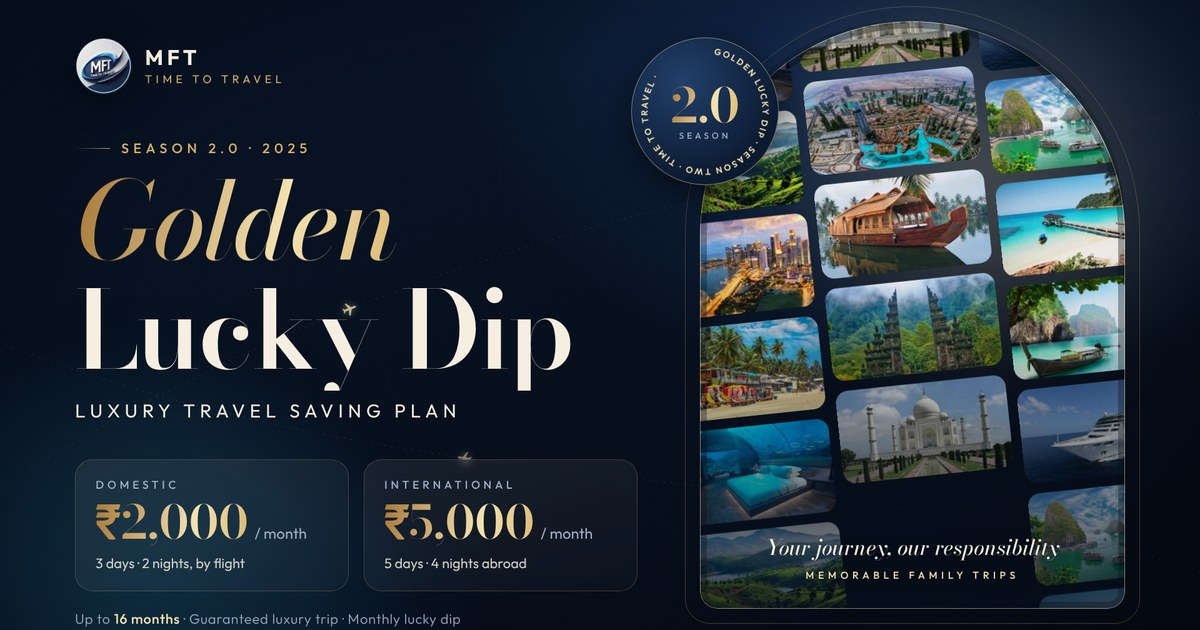
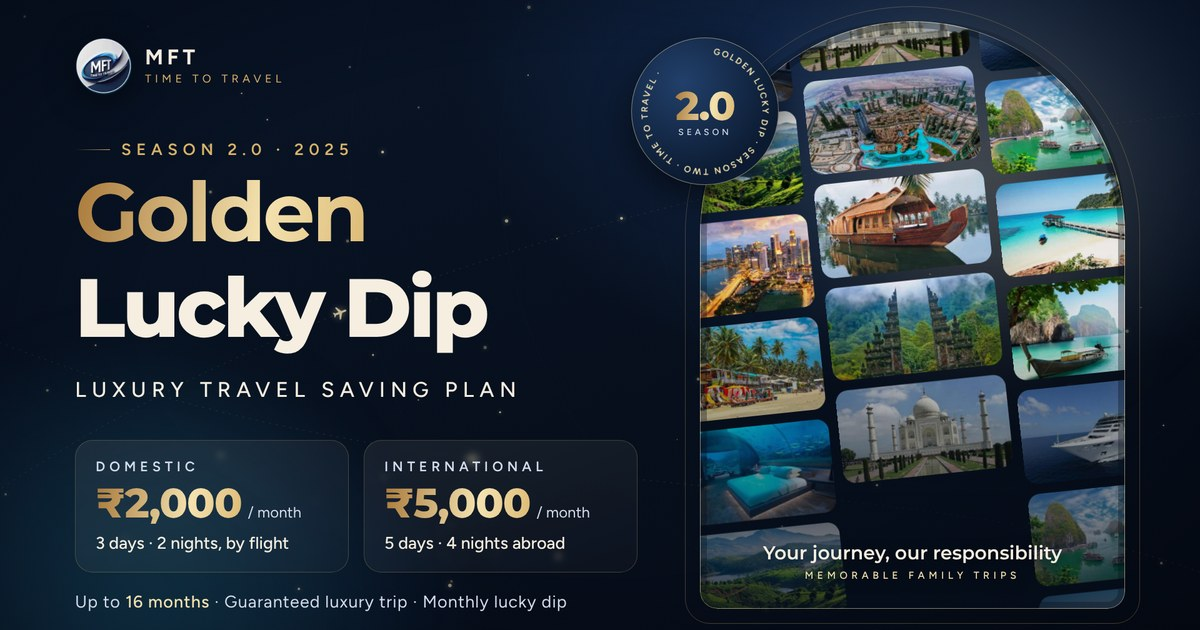
Add files via upload

diff --git a/index.html b/index.html
@@ -24,7 +24,7 @@
 <meta name="twitter:image" content="https://hashirsulthan0-cmd.github.io/mft-travel-plan/preview.jpg">
 <link rel="preconnect" href="https://fonts.googleapis.com">
 <link rel="preconnect" href="https://fonts.gstatic.com" crossorigin>
-<link rel="stylesheet" href="https://fonts.googleapis.com/css2?family=Bodoni+Moda:ital,opsz,wght@0,6..96,500;0,6..96,600;0,6..96,700;1,6..96,500;1,6..96,600&family=Outfit:wght@300;400;500;600;700&display=swap">
+<link rel="stylesheet" href="https://fonts.googleapis.com/css2?family=Montserrat:wght@400;500;600;700;800&family=Figtree:wght@400;500;600;700;800&display=swap">
 <style>
 /* Layout: one 1920x1080 stage scaled to the screen. Midnight navy ground, champagne gold as the single accent,
    Bodoni for display moments, Outfit for everything that has to be read fast. */
@@ -44,8 +44,8 @@
   --t-blue: #4cc6ec;
   --t-crown: #c5a2f7;
   --t-royal: #9f8dff;
-  --display: "Bodoni Moda", "Bodoni 72", Didot, Georgia, serif;
-  --sans: "Outfit", "Segoe UI", system-ui, -apple-system, sans-serif;
+  --display: "Montserrat", "Segoe UI", system-ui, sans-serif;
+  --sans: "Figtree", "Segoe UI", system-ui, -apple-system, sans-serif;
   color-scheme: dark;
 }
 * { box-sizing: border-box; }
@@ -91,35 +91,37 @@ body {
 .vignette { position: absolute; inset: 0; background: radial-gradient(ellipse at center, transparent 55%, rgba(2, 6, 12, .55) 100%); pointer-events: none; }
 
 /* ---------- slides ---------- */
-.slide { position: absolute; inset: 0; opacity: 0; visibility: hidden; transition: opacity .5s ease, visibility 0s linear .5s; }
-.slide.on { opacity: 1; visibility: visible; transition: opacity .5s ease; z-index: 2; }
+.slide { position: absolute; inset: 0; opacity: 0; visibility: hidden; transform: scale(.965); transition: opacity .55s ease, transform .7s cubic-bezier(.4,0,.2,1), visibility 0s linear .7s; }
+.slide.on { opacity: 1; visibility: visible; transform: none; transition: opacity .6s ease .1s, transform 1s cubic-bezier(.16,1,.3,1) .05s; z-index: 2; }
+.corner-logo { position: absolute; right: 44px; top: 34px; width: 116px; height: 116px; z-index: 4; filter: drop-shadow(0 10px 26px rgba(0,0,0,.55)); }
+.dust { position: absolute; inset: 0; width: 100%; height: 100%; pointer-events: none; }
 .slide img { display: block; max-width: none; }
 
 .eyebrow { display: inline-flex; align-items: center; gap: 18px; font: 600 26px/1 var(--sans); letter-spacing: .32em; text-transform: uppercase; color: var(--gold); }
 .eyebrow::before { content: ""; width: 56px; height: 1px; background: linear-gradient(90deg, transparent, var(--gold)); }
-.h2 { font: 600 84px/.86 var(--display); letter-spacing: -.01em; margin: 6px 0 0; text-wrap: balance; }
-.h2 em, .it { font-style: italic; font-weight: 500; }
+.h2 { font: 800 76px/1.02 var(--display); letter-spacing: -.02em; margin: 10px 0 0; text-wrap: balance; }
+.h2 em, .it { font-style: normal; font-weight: 600; }
 .gold-text {
   background: linear-gradient(100deg, #a9793a 0%, #f4e2b0 30%, #d8b26a 50%, #fff4d2 66%, #b8873f 100%);
   background-size: 220% 100%; -webkit-background-clip: text; background-clip: text; color: transparent;
   animation: sheen 7s ease-in-out infinite;
 }
 @keyframes sheen { 0%, 100% { background-position: 0% 0; } 50% { background-position: 100% 0; } }
-.ln { display: block; overflow: hidden; padding: .1em 0 .08em; }
+.ln { display: block; overflow: hidden; padding: .06em 0 .12em; }
 .ln > * { display: inline-block; }
 .head { position: absolute; left: 120px; top: 92px; right: 120px; }
 .head .sub { margin-top: 18px; font: 400 31px/1.4 var(--sans); color: var(--mist); max-width: 1100px; }
 
 .foot { position: absolute; left: 120px; right: 120px; bottom: 40px; display: flex; align-items: center; justify-content: space-between; font: 500 20px var(--sans); letter-spacing: .22em; text-transform: uppercase; color: rgba(211,220,235,.85); }
 .foot .fb { display: flex; align-items: center; gap: 14px; }
-.foot img { width: 36px; height: 36px; }
+.foot .fb::before { content: ""; width: 40px; height: 1px; background: linear-gradient(90deg, transparent, var(--gold)); }
 .foot .pg { font-variant-numeric: tabular-nums; }
 .foot .pg b { color: var(--gold); font-weight: 600; }
 
 .glass { background: linear-gradient(160deg, rgba(255,255,255,.07), rgba(255,255,255,.025)); border: 1px solid var(--line); border-radius: 28px; backdrop-filter: blur(6px); }
 
 /* ---------- entry animations ---------- */
-.slide.on [class*="a-"] { animation-duration: .9s; animation-timing-function: cubic-bezier(.2,.8,.2,1); animation-fill-mode: both; animation-delay: var(--d, 0s); }
+.slide.on [class*="a-"] { animation-duration: .9s; animation-timing-function: cubic-bezier(.2,.8,.2,1); animation-fill-mode: both; animation-delay: var(--d, 0s); animation-iteration-count: 1; }
 .slide.on .a-up    { animation-name: up; }
 .slide.on .a-down  { animation-name: down; }
 .slide.on .a-left  { animation-name: left; }
@@ -167,14 +169,14 @@ body {
 .brand b { display: block; font: 700 34px/1 var(--sans); letter-spacing: .18em; }
 .brand span { display: block; margin-top: 6px; font: 400 18px var(--sans); letter-spacing: .34em; text-transform: uppercase; color: var(--gold); }
 .cover-left .eyebrow { margin-top: 74px; }
-.cover-title { margin: 6px 0 0; font: 600 172px/.78 var(--display); letter-spacing: -.02em; }
-.cover-title .it { font-weight: 500; }
+.cover-title { margin: 14px 0 0; font: 800 132px/.98 var(--display); letter-spacing: -.035em; }
+.cover-title .it { font-weight: 700; }
 .cover-sub { margin: 30px 0 0; font: 500 34px/1.3 var(--sans); letter-spacing: .26em; text-transform: uppercase; color: var(--ivory); }
 .plans { display: flex; gap: 24px; margin-top: 58px; }
 .plan { flex: 1; padding: 28px 32px 30px; }
 .plan .k { font: 600 22px var(--sans); letter-spacing: .3em; text-transform: uppercase; color: var(--mist); }
 .plan .v { margin-top: 12px; display: flex; align-items: baseline; gap: 10px; }
-.plan .v b { font: 600 74px/1 var(--display); }
+.plan .v b { font: 800 66px/1 var(--display); letter-spacing: -.02em; }
 .plan .v small { font: 400 24px var(--sans); color: var(--mist); }
 .plan .n { margin-top: 14px; font: 500 27px var(--sans); color: var(--ivory); }
 .cover-note { margin-top: 30px; font: 400 27px var(--sans); color: var(--mist); letter-spacing: .04em; }
@@ -190,25 +192,25 @@ body {
 .marquee img { width: 100%; height: 300px; object-fit: cover; border-radius: 18px; }
 @keyframes scrollUp { from { transform: translateY(0); } to { transform: translateY(-50%); } }
 @keyframes scrollDown { from { transform: translateY(-50%); } to { transform: translateY(0); } }
-.arch-cap { position: absolute; left: 0; right: 0; bottom: 44px; text-align: center; font: 500 italic 34px var(--display); color: var(--ivory); text-shadow: 0 4px 20px rgba(0,0,0,.6); }
+.arch-cap { position: absolute; left: 0; right: 0; bottom: 44px; text-align: center; font: 600 30px var(--display); color: var(--ivory); text-shadow: 0 4px 20px rgba(0,0,0,.6); }
 .arch-cap small { display: block; margin-top: 8px; font: 500 16px var(--sans); font-style: normal; letter-spacing: .4em; text-transform: uppercase; color: var(--gold-hi); }
 .seal { position: absolute; left: 1010px; top: 96px; width: 236px; height: 236px; border-radius: 50%; background: radial-gradient(circle at 35% 30%, #22406b, #0b1a30 70%); box-shadow: 0 20px 60px rgba(0,0,0,.6), inset 0 0 0 1px rgba(244,226,176,.5); display: grid; place-items: center; }
 .seal svg { position: absolute; inset: 0; width: 100%; height: 100%; animation: rot 26s linear infinite; }
 .seal text { font: 600 14px var(--sans); letter-spacing: 2.6px; fill: var(--gold-hi); text-transform: uppercase; }
 @keyframes rot { to { transform: rotate(360deg); } }
 .seal .c { text-align: center; }
-.seal .c b { display: block; font: 600 76px/1 var(--display); }
+.seal .c b { display: block; font: 800 64px/1 var(--display); letter-spacing: -.03em; }
 .seal .c span { display: block; margin-top: 2px; font: 500 14px var(--sans); letter-spacing: .34em; color: var(--mist); text-transform: uppercase; }
 
 /* ---------- 2 / 4 plan ---------- */
 .plan-left { position: absolute; left: 120px; top: 92px; width: 860px; }
 .price-k { margin-top: 54px; font: 600 26px var(--sans); letter-spacing: .3em; text-transform: uppercase; color: var(--mist); }
 .price { display: flex; align-items: baseline; gap: 18px; margin-top: 4px; }
-.price b { font: 600 190px/1 var(--display); letter-spacing: -.03em; }
+.price b { font: 800 160px/1 var(--display); letter-spacing: -.04em; }
 .price small { font: 300 40px var(--sans); color: var(--mist); }
 .stats { display: grid; grid-template-columns: repeat(3, 1fr); gap: 20px; margin-top: 46px; }
 .stat { padding: 26px 30px; }
-.stat b { display: block; font: 600 54px/1 var(--display); color: var(--ivory); }
+.stat b { display: block; font: 800 48px/1 var(--display); color: var(--ivory); letter-spacing: -.02em; }
 .stat span { display: block; margin-top: 10px; font: 600 23px var(--sans); letter-spacing: .2em; text-transform: uppercase; color: var(--mist); }
 .promise { display: inline-flex; align-items: center; gap: 18px; margin-top: 36px; padding: 18px 30px 18px 20px; border-radius: 999px; background: linear-gradient(90deg, rgba(216,178,106,.2), rgba(216,178,106,.04)); border: 1px solid rgba(216,178,106,.5); font: 600 30px var(--sans); color: var(--gold-hi); }
 .promise i { width: 40px; height: 40px; border-radius: 50%; background: var(--gold); display: grid; place-items: center; flex: none; }
@@ -219,7 +221,7 @@ body {
 .slide:not(.on) .photo-arch .stk { animation: none; }
 @keyframes kenburns { from { transform: scale(1.12) translateY(20px); } to { transform: scale(1.02); } }
 .photo-arch::after { content: ""; position: absolute; inset: 0; border-radius: inherit; border: 1.5px solid rgba(244,226,176,.5); background: linear-gradient(180deg, transparent 55%, rgba(6,14,27,.8)); }
-.photo-arch .tag { position: absolute; left: 0; right: 0; bottom: 40px; z-index: 2; text-align: center; font: 500 italic 40px var(--display); }
+.photo-arch .tag { position: absolute; left: 0; right: 0; bottom: 40px; z-index: 2; text-align: center; font: 700 38px var(--display); }
 .photo-arch .tag small { display: block; font: 500 16px var(--sans); font-style: normal; letter-spacing: .36em; text-transform: uppercase; color: var(--gold-hi); margin-bottom: 8px; }
 .photo-mini { position: absolute; width: 330px; height: 230px; border-radius: 22px; overflow: hidden; border: 6px solid #0c1b31; box-shadow: 0 30px 80px rgba(0,0,0,.6); }
 .photo-mini img { width: 100%; height: 100%; object-fit: cover; }
@@ -234,14 +236,14 @@ body {
 .dest::after { content: ""; position: absolute; inset: 0; border-radius: inherit; background: linear-gradient(180deg, rgba(6,14,27,0) 40%, rgba(6,14,27,.92)); box-shadow: inset 0 0 0 1px rgba(244,226,176,.18); }
 .dest .cap { position: absolute; left: 22px; right: 18px; bottom: 20px; z-index: 2; }
 .dest .cap b { display: block; font: 600 31px/1.15 var(--sans); color: #fff; text-wrap: balance; overflow-wrap: anywhere; }
-.dest .cap b.sm { font-size: 25px; }
+.dest .cap b.sm { font-size: 21px; overflow-wrap: normal; letter-spacing: -.01em; }
 .dest .cap span { display: block; margin-top: 6px; font: 600 17px var(--sans); letter-spacing: .24em; text-transform: uppercase; color: var(--gold-hi); }
 .dest-grid.g5 .dest { height: 290px; }
 .dest-grid.g5 .dest.wide { grid-column: span 1; }
 
 /* ---------- 6 lucky dip ---------- */
 .ld-left { position: absolute; left: 120px; top: 92px; width: 820px; }
-.ld-big { margin: 8px 0 0; font: 600 150px/.8 var(--display); letter-spacing: -.02em; }
+.ld-big { margin: 14px 0 0; font: 800 132px/.98 var(--display); letter-spacing: -.035em; }
 .ld-pre { margin-top: 22px; font: 400 42px/1.25 var(--sans); color: var(--ivory); }
 .ld-chips { display: flex; flex-wrap: wrap; gap: 16px; margin-top: 46px; }
 .chip { display: inline-flex; align-items: center; gap: 14px; padding: 18px 28px; border-radius: 999px; font: 600 28px var(--sans); }
@@ -262,14 +264,14 @@ body {
 
 /* ---------- 7 power of 5 ---------- */
 .p5-left { position: absolute; left: 120px; top: 92px; width: 860px; }
-.p5-title { margin: 0; font: 600 200px/.8 var(--display); letter-spacing: -.02em; }
-.p5-title .of { display: inline-block; font: 500 italic 90px var(--display); color: var(--mist); margin: 0 10px 0 16px; vertical-align: middle; }
+.p5-title { margin: 6px 0 0; font: 800 150px/1 var(--display); letter-spacing: -.04em; }
+.p5-title .of { display: inline-block; font: 600 64px var(--display); color: var(--mist); margin: 0 10px 0 16px; vertical-align: middle; }
 .p5-copy { margin-top: 30px; font: 400 34px/1.45 var(--sans); color: var(--mist); max-width: 760px; }
 .p5-copy b { color: var(--ivory); font-weight: 500; }
 .p5-stats { display: flex; gap: 22px; margin-top: 54px; }
 .p5-stats .glass { padding: 28px 34px; min-width: 330px; }
 .p5-stats .k { font: 600 22px var(--sans); letter-spacing: .28em; text-transform: uppercase; color: var(--mist); }
-.p5-stats .v { margin-top: 12px; font: 600 72px/1 var(--display); }
+.p5-stats .v { margin-top: 12px; font: 800 60px/1 var(--display); letter-spacing: -.02em; }
 .orbit { position: absolute; left: 1030px; top: 120px; width: 800px; height: 800px; }
 .orbit svg.lines { position: absolute; inset: 0; overflow: visible; }
 .orbit svg.lines circle { fill: none; stroke: rgba(216,178,106,.22); stroke-width: 1.5; stroke-dasharray: 4 10; }
@@ -279,7 +281,7 @@ body {
 .node.m svg { width: 54px; height: 54px; fill: var(--gold-hi); }
 .node.m span { display: block; margin-top: 4px; font: 600 17px var(--sans); letter-spacing: .2em; text-transform: uppercase; color: var(--mist); }
 .node.you { width: 250px; height: 250px; margin: -125px 0 0 -125px; background: radial-gradient(circle at 35% 30%, #f4e2b0, #c89b52 55%, #8a6128); box-shadow: 0 0 0 14px rgba(216,178,106,.12), 0 0 0 30px rgba(216,178,106,.06), 0 30px 80px rgba(0,0,0,.5); color: var(--night); }
-.node.you b { display: block; font: 600 120px/1 var(--display); }
+.node.you b { display: block; font: 800 110px/1 var(--display); }
 .node.you span { display: block; margin-top: -4px; font: 600 16px var(--sans); letter-spacing: .3em; text-transform: uppercase; }
 .pulse { position: absolute; left: 400px; top: 400px; width: 250px; height: 250px; margin: -125px 0 0 -125px; border-radius: 50%; border: 2px solid rgba(216,178,106,.5); }
 .slide.on .pulse { animation: pulse 2.8s ease-out 2s infinite; }
@@ -290,7 +292,7 @@ body {
 .inc { padding: 40px 42px; height: 270px; display: flex; flex-direction: column; justify-content: space-between; position: relative; overflow: hidden; }
 .inc .ic { width: 84px; height: 84px; border-radius: 22px; display: grid; place-items: center; background: linear-gradient(145deg, rgba(216,178,106,.28), rgba(216,178,106,.06)); border: 1px solid rgba(216,178,106,.45); }
 .inc .ic svg { width: 44px; height: 44px; stroke: var(--gold-hi); stroke-width: 1.8; fill: none; stroke-linecap: round; stroke-linejoin: round; }
-.inc b { font: 600 52px/1.05 var(--display); }
+.inc b { font: 700 44px/1.1 var(--display); letter-spacing: -.01em; }
 .inc::after { content: ""; position: absolute; right: -60px; top: -60px; width: 220px; height: 220px; border-radius: 50%; background: radial-gradient(circle, rgba(216,178,106,.16), transparent 70%); }
 
 /* ---------- tables (9, 10, 11) ---------- */
@@ -301,7 +303,7 @@ body {
 .lvl sup { font-size: .6em; }
 .des { display: flex; align-items: center; gap: 22px; font: 600 34px var(--sans); letter-spacing: .04em; }
 .des img { width: 86px; height: 64px; object-fit: contain; flex: none; filter: drop-shadow(0 8px 14px rgba(0,0,0,.45)); }
-.num { font: 600 48px var(--display); }
+.num { font: 700 42px var(--display); letter-spacing: -.01em; }
 .num.r { text-align: right; }
 .num.pct { font: 700 40px var(--sans); }
 .calc { font: 500 34px var(--sans); color: var(--ivory); }
@@ -312,13 +314,13 @@ body {
 .bar-cell { display: grid; grid-template-columns: 1fr 110px; align-items: center; }
 .total { position: absolute; right: 120px; top: 300px; width: 540px; height: 636px; padding: 50px 48px; display: flex; flex-direction: column; justify-content: space-between; overflow: hidden; }
 .total .k { font: 600 24px var(--sans); letter-spacing: .3em; text-transform: uppercase; color: var(--gold); }
-.total .t { margin-top: 16px; font: 600 54px/1.05 var(--display); }
-.total .v { font: 600 80px/1 var(--display); letter-spacing: -.02em; font-variant-numeric: tabular-nums; }
+.total .t { margin-top: 16px; font: 700 40px/1.15 var(--display); }
+.total .v { font: 800 76px/1 var(--display); letter-spacing: -.03em; font-variant-numeric: tabular-nums; }
 .total .s { margin-top: 14px; font: 400 25px/1.4 var(--sans); color: var(--mist); }
 .total .ring { position: absolute; right: -170px; top: -170px; width: 440px; height: 440px; border-radius: 50%; border: 1px solid rgba(216,178,106,.25); box-shadow: 0 0 0 40px rgba(216,178,106,.04), 0 0 0 90px rgba(216,178,106,.03); }
 
-.lv-badge { position: absolute; right: 120px; top: 84px; display: flex; align-items: center; gap: 18px; padding: 14px 30px 14px 14px; border-radius: 999px; background: linear-gradient(100deg, #b8873f, #f4e2b0 50%, #d8b26a); color: var(--night); box-shadow: 0 18px 50px rgba(216,178,106,.28); }
-.lv-badge b { width: 92px; height: 92px; border-radius: 50%; background: var(--night); color: var(--gold-hi); display: grid; place-items: center; font: 600 62px/1 var(--display); }
+.lv-badge { position: absolute; right: 200px; top: 112px; display: flex; align-items: center; gap: 18px; padding: 14px 30px 14px 14px; border-radius: 999px; background: linear-gradient(100deg, #b8873f, #f4e2b0 50%, #d8b26a); color: var(--night); box-shadow: 0 18px 50px rgba(216,178,106,.28); }
+.lv-badge b { width: 92px; height: 92px; border-radius: 50%; background: var(--night); color: var(--gold-hi); display: grid; place-items: center; font: 800 54px/1 var(--display); }
 .lv-badge span { font: 700 26px/1.15 var(--sans); letter-spacing: .08em; text-transform: uppercase; }
 .steps { position: absolute; left: 120px; right: 120px; top: 274px; display: grid; grid-template-columns: repeat(5, 1fr); gap: 0; }
 .step { position: relative; display: flex; align-items: center; gap: 14px; padding-right: 24px; }
@@ -341,7 +343,7 @@ body {
 .trips figcaption { position: absolute; left: 20px; right: 16px; bottom: 16px; z-index: 2; }
 .trips figcaption b { display: block; font: 600 27px/1.1 var(--sans); color: #fff; }
 .trips figcaption span { display: block; margin-top: 4px; font: 600 16px var(--sans); letter-spacing: .22em; text-transform: uppercase; color: var(--gold-hi); }
-.trips-tag { position: absolute; right: 120px; top: 150px; display: inline-flex; align-items: center; gap: 12px; padding: 14px 24px; border-radius: 999px; background: var(--gold); color: var(--night); font: 700 22px var(--sans); letter-spacing: .12em; text-transform: uppercase; }
+.trips-tag { position: absolute; right: 200px; top: 170px; display: inline-flex; align-items: center; gap: 12px; padding: 14px 24px; border-radius: 999px; background: var(--gold); color: var(--night); font: 700 22px var(--sans); letter-spacing: .12em; text-transform: uppercase; }
 .trips-tag svg { width: 24px; height: 24px; fill: var(--night); }
 
 /* ---------- office gallery + two offices ---------- */
@@ -352,7 +354,7 @@ body {
 .slide.on .gal img { transform: scale(1.07); }
 .gal figure::after { content: ""; position: absolute; inset: 0; border-radius: inherit; background: linear-gradient(180deg, transparent 55%, rgba(6,14,27,.85)); box-shadow: inset 0 0 0 1px rgba(244,226,176,.2); }
 .gal figcaption { position: absolute; left: 22px; bottom: 18px; z-index: 2; font: 600 25px var(--sans); color: #fff; }
-.gal-tag { position: absolute; right: 120px; top: 150px; display: inline-flex; align-items: center; gap: 12px; padding: 14px 24px; border-radius: 999px; border: 1px solid rgba(216,178,106,.5); background: rgba(216,178,106,.12); font: 600 24px var(--sans); color: var(--gold-hi); }
+.gal-tag { position: absolute; right: 200px; top: 170px; display: inline-flex; align-items: center; gap: 12px; padding: 14px 24px; border-radius: 999px; border: 1px solid rgba(216,178,106,.5); background: rgba(216,178,106,.12); font: 600 24px var(--sans); color: var(--gold-hi); }
 .gal-tag svg { width: 26px; height: 26px; fill: var(--gold); }
 .two { position: absolute; left: 120px; right: 120px; top: 300px; display: grid; grid-template-columns: 1fr 1fr; gap: 30px; }
 .oc { height: 680px; border-radius: 30px; overflow: hidden; display: flex; flex-direction: column; }
@@ -362,7 +364,7 @@ body {
 .oc .ph small { position: absolute; right: 18px; top: 16px; z-index: 2; padding: 6px 12px; border-radius: 8px; background: rgba(6,14,27,.6); font: 500 16px var(--sans); color: #e6ecf5; letter-spacing: .04em; }
 .oc .chip2 { position: absolute; left: 30px; bottom: 26px; z-index: 2; display: inline-flex; align-items: center; gap: 10px; padding: 10px 20px; border-radius: 999px; background: var(--gold); color: var(--night); font: 700 20px var(--sans); letter-spacing: .14em; text-transform: uppercase; }
 .oc .bd { padding: 30px 38px; }
-.oc b { display: block; font: 600 58px/1.05 var(--display); }
+.oc b { display: block; font: 800 52px/1.05 var(--display); letter-spacing: -.02em; }
 .oc p { margin: 14px 0 0; font: 400 25px/1.45 var(--sans); color: #eef2f8; }
 
 /* ---------- 12 awards ---------- */
@@ -375,7 +377,7 @@ body {
 .aw .ic img { width: 76px; height: 62px; object-fit: contain; }
 .aw .bd { flex: 1; padding: 78px 26px 34px; text-align: center; display: flex; flex-direction: column; }
 .aw .tier { font: 700 20px var(--sans); letter-spacing: .26em; text-transform: uppercase; }
-.aw .rw { margin-top: 18px; font: 600 42px/1.05 var(--display); }
+.aw .rw { margin-top: 18px; font: 800 36px/1.1 var(--display); letter-spacing: -.01em; }
 .aw .rs { margin-top: 12px; font: 500 21px/1.45 var(--sans); letter-spacing: .14em; text-transform: uppercase; color: var(--mist); }
 .aw .lv { margin-top: auto; font: 600 19px var(--sans); letter-spacing: .3em; text-transform: uppercase; color: rgba(211,220,235,.8); }
 
@@ -384,9 +386,9 @@ body {
 .hl { display: flex; align-items: center; gap: 30px; padding: 38px 40px; }
 .hl .ck { width: 70px; height: 70px; flex: none; border-radius: 50%; background: var(--gold); display: grid; place-items: center; box-shadow: 0 0 0 10px rgba(216,178,106,.12); }
 .hl .ck svg { width: 34px; height: 34px; stroke: var(--night); stroke-width: 3.2; fill: none; stroke-linecap: round; stroke-linejoin: round; }
-.hl b { font: 600 50px/1.15 var(--display); }
+.hl b { font: 700 42px/1.2 var(--display); letter-spacing: -.01em; }
 .cta { position: absolute; left: 120px; right: 120px; top: 780px; height: 170px; border-radius: 40px; display: flex; align-items: center; justify-content: space-between; padding: 0 60px; background: linear-gradient(100deg, #b8873f, #f4e2b0 45%, #d8b26a 70%, #a9793a); color: var(--night); box-shadow: 0 30px 80px rgba(216,178,106,.25); overflow: hidden; }
-.cta b { display: block; font: 600 62px/1 var(--display); }
+.cta b { display: block; font: 800 54px/1.05 var(--display); letter-spacing: -.02em; }
 .cta span { display: block; margin-top: 12px; font: 700 24px var(--sans); letter-spacing: .34em; text-transform: uppercase; opacity: .78; }
 .cta .arrow { width: 110px; height: 110px; border-radius: 50%; background: var(--night); display: grid; place-items: center; }
 .cta .arrow svg { width: 46px; height: 46px; stroke: var(--gold-hi); stroke-width: 2.4; fill: none; }
@@ -396,7 +398,7 @@ body {
 
 /* ---------- 14 terms ---------- */
 .terms-en { position: absolute; left: 120px; right: 120px; top: 232px; display: grid; grid-template-columns: 1fr 1fr; column-gap: 60px; row-gap: 10px; counter-reset: t; }
-.term { display: grid; grid-template-columns: 46px 1fr; gap: 14px; font: 500 23px/1.3 var(--sans); color: #eef2f8; }
+.term { display: grid; grid-template-columns: 46px 1fr; gap: 14px; font: 500 24px/1.32 var(--sans); color: #eef2f8; }
 .term::before { counter-increment: t; content: counter(t, decimal-leading-zero); font: 600 18px/1.6 var(--sans); color: var(--gold); letter-spacing: .06em; }
 .kn-card { position: absolute; left: 120px; right: 120px; top: 650px; height: 410px; border-radius: 26px; background: #f6efe2; padding: 22px 34px 18px; display: flex; flex-direction: column; align-items: center; gap: 12px; box-shadow: 0 24px 70px rgba(0,0,0,.45); }
 .kn-card img.kt { height: 270px; width: auto; }
@@ -404,13 +406,13 @@ body {
 
 /* ---------- 15 about ---------- */
 .ab-left { position: absolute; left: 120px; top: 92px; width: 700px; }
-.ab-title { margin: 6px 0 0; font: 600 108px/.84 var(--display); letter-spacing: -.015em; }
+.ab-title { margin: 12px 0 0; font: 800 88px/1 var(--display); letter-spacing: -.035em; }
 .tag-lines { margin-top: 46px; display: grid; gap: 10px; }
-.tag-lines div { font: 500 italic 40px/1.3 var(--display); color: var(--ivory); }
+.tag-lines div { font: 600 32px/1.35 var(--display); color: var(--ivory); }
 .tag-lines div:nth-child(2) { color: var(--gold-hi); }
 .ab-web { margin-top: 56px; display: inline-flex; align-items: center; gap: 16px; padding: 18px 28px; border-radius: 999px; border: 1px solid var(--line); font: 600 28px var(--sans); letter-spacing: .08em; }
 .ab-web svg { width: 26px; height: 26px; stroke: var(--gold); fill: none; stroke-width: 1.8; }
-.ab-list { position: absolute; left: 900px; right: 120px; top: 80px; display: grid; gap: 14px; }
+.ab-list { position: absolute; left: 880px; right: 190px; top: 70px; display: grid; gap: 14px; }
 .ab { display: grid; grid-template-columns: 76px 1fr; gap: 26px; padding: 20px 30px; align-items: start; }
 .ab .ic { width: 76px; height: 76px; border-radius: 20px; display: grid; place-items: center; background: rgba(216,178,106,.12); border: 1px solid rgba(216,178,106,.4); }
 .ab .ic svg { width: 40px; height: 40px; stroke: var(--gold-hi); stroke-width: 1.8; fill: none; stroke-linecap: round; stroke-linejoin: round; }
@@ -419,12 +421,12 @@ body {
 
 /* ---------- 16 contact ---------- */
 .ct-logo { position: absolute; left: 50%; top: 52px; width: 116px; height: 116px; margin-left: -58px; filter: drop-shadow(0 16px 40px rgba(0,0,0,.6)); }
-.ct-title { position: absolute; left: 0; right: 0; top: 186px; margin: 0; text-align: center; font: 600 66px/1 var(--display); }
+.ct-title { position: absolute; left: 0; right: 0; top: 186px; margin: 0; text-align: center; font: 800 62px/1.05 var(--display); letter-spacing: -.02em; }
 .offices { position: absolute; left: 120px; right: 120px; top: 300px; display: grid; grid-template-columns: repeat(3, 1fr); gap: 24px; }
 .office { padding: 30px 36px; height: 290px; }
 .office .pin { display: flex; align-items: center; gap: 14px; font: 700 21px var(--sans); letter-spacing: .26em; text-transform: uppercase; color: var(--gold); }
 .office .pin svg { width: 26px; height: 26px; fill: var(--gold); }
-.office b { display: block; margin-top: 18px; font: 600 38px/1.05 var(--display); }
+.office b { display: block; margin-top: 16px; font: 800 36px/1.05 var(--display); }
 .office p { margin: 12px 0 0; font: 400 24px/1.42 var(--sans); color: #eef2f8; }
 .socials { position: absolute; left: 120px; right: 120px; top: 616px; height: 290px; grid-template-columns: 290px 1fr 1fr !important; display: grid; grid-template-columns: 300px 1fr 1fr; gap: 24px; }
 .qr { background: #fff; border-radius: 26px; padding: 14px; display: grid; place-items: center; }
@@ -432,7 +434,7 @@ body {
 .soc { padding: 40px 44px; display: flex; flex-direction: column; justify-content: center; gap: 14px; }
 .soc .k { font: 600 22px var(--sans); letter-spacing: .3em; text-transform: uppercase; color: var(--mist); display: flex; align-items: center; gap: 14px; }
 .soc .k svg { width: 34px; height: 34px; }
-.soc b { font: 600 50px/1.05 var(--display); word-break: break-word; }
+.soc b { font: 800 46px/1.05 var(--display); word-break: break-word; letter-spacing: -.01em; }
 .soc .live { display: inline-flex; align-items: center; gap: 10px; padding: 8px 16px; border-radius: 999px; background: #e3262c; color: #fff; font: 700 15px var(--sans); letter-spacing: .24em; width: max-content; }
 .soc .live::before { content: ""; width: 10px; height: 10px; border-radius: 50%; background: #fff; }
 .slide.on .soc .live::before { animation: blink 1.2s ease-in-out infinite; }
@@ -482,6 +484,7 @@ body {
           </svg>
           <div class="plane"><svg viewBox="0 0 24 24"><path d="M21 16v-2l-8-5V3.5a1.5 1.5 0 0 0-3 0V9l-8 5v2l8-2.5V19l-2 1.5V22l3.5-1 3.5 1v-1.5L13 19v-5.5z" transform="rotate(90 12 12)"/></svg></div>
           <div class="plane plane2"><svg viewBox="0 0 24 24"><path d="M21 16v-2l-8-5V3.5a1.5 1.5 0 0 0-3 0V9l-8 5v2l8-2.5V19l-2 1.5V22l3.5-1 3.5 1v-1.5L13 19v-5.5z" transform="rotate(90 12 12)"/></svg></div>
+          <canvas class="dust" id="dust" width="1920" height="1080"></canvas>
           <div class="grain"></div>
           <div class="vignette"></div>
         </div>
@@ -566,24 +569,6 @@ body {
             <h2 class="h2"><span class="ln"><span class="a-rise" style="--d:.3s">The world, <em class="gold-text">your pick</em></span></span></h2>
           </div>
           <div class="dest-grid g5" data-dest="intl"></div>
-        </section>
-
-        <!-- TRIPS ARRANGED BY MFT -->
-        <section class="slide" data-glow="1250,-200,-250,620" aria-label="Trips arranged by MFT">
-          <div class="head">
-            <div class="eyebrow a-left" style="--d:.1s">Real trips · Real travellers</div>
-            <h2 class="h2"><span class="ln"><span class="a-rise" style="--d:.3s">Arranged by <em class="gold-text">MFT</em></span></span></h2>
-          </div>
-          <div class="trips-tag a-pop" style="--d:.7s"><svg viewBox="0 0 24 24"><path d="M21 15.5v-2l-8-5V4a1.5 1.5 0 0 0-3 0v4.5l-8 5v2l8-2.5V18l-2 1.5V21l3.5-1 3.5 1v-1.5L13 18v-5z"/></svg>MFT tourists</div>
-          <div class="trips">
-            <figure class="tall a-zoom" style="--d:.5s"><img src="t-goa.webp" alt="MFT group at a fort in Goa"><figcaption><b>Goa</b><span>India</span></figcaption></figure>
-            <figure class="a-up" style="--d:.65s"><img src="t-dubai.webp" alt="MFT group at the Burj Al Arab, Dubai"><figcaption><b>Dubai</b><span>UAE</span></figcaption></figure>
-            <figure class="a-up" style="--d:.78s"><img src="t-pattaya.webp" alt="MFT group at the Pattaya sign"><figcaption><b>Pattaya</b><span>Thailand</span></figcaption></figure>
-            <figure class="a-up" style="--d:.91s"><img src="t-malaysia.webp" alt="MFT Malaysia trip group at a temple"><figcaption><b>Kuala Lumpur</b><span>Malaysia</span></figcaption></figure>
-            <figure class="a-up" style="--d:1.04s"><img src="t-cordelia.webp" alt="MFT group in front of the Cordelia cruise ship"><figcaption><b>Cordelia Cruise</b><span>Chennai</span></figcaption></figure>
-            <figure class="a-up" style="--d:1.17s"><img src="t-batu.webp" alt="MFT group at Batu Caves"><figcaption><b>Batu Caves</b><span>Malaysia</span></figcaption></figure>
-            <figure class="a-up" style="--d:1.3s"><img src="t-rafting.webp" alt="MFT travellers river rafting"><figcaption><b>River rafting</b><span>Adventure trip</span></figcaption></figure>
-          </div>
         </section>
 
         <!-- 6 LUCKY DIP -->
@@ -685,6 +670,24 @@ body {
           <div class="cta a-up" style="--d:1.6s">
             <div><b>Join today. Build your team.</b><span>Achieve financial freedom</span></div>
             <div class="arrow"><svg viewBox="0 0 24 24"><path d="M5 12h14M13 6l6 6-6 6"/></svg></div>
+          </div>
+        </section>
+
+        <!-- TRIPS ARRANGED BY MFT -->
+        <section class="slide" data-glow="1250,-200,-250,620" aria-label="Trips arranged by MFT">
+          <div class="head">
+            <div class="eyebrow a-left" style="--d:.1s">Real trips · Real travellers</div>
+            <h2 class="h2"><span class="ln"><span class="a-rise" style="--d:.3s">Arranged by <em class="gold-text">MFT</em></span></span></h2>
+          </div>
+          <div class="trips-tag a-pop" style="--d:.7s"><svg viewBox="0 0 24 24"><path d="M21 15.5v-2l-8-5V4a1.5 1.5 0 0 0-3 0v4.5l-8 5v2l8-2.5V18l-2 1.5V21l3.5-1 3.5 1v-1.5L13 18v-5z"/></svg>MFT tourists</div>
+          <div class="trips">
+            <figure class="tall a-zoom" style="--d:.5s"><img src="t-goa.webp" alt="MFT group at a fort in Goa"><figcaption><b>Goa</b><span>India</span></figcaption></figure>
+            <figure class="a-up" style="--d:.65s"><img src="t-dubai.webp" alt="MFT group at the Burj Al Arab, Dubai"><figcaption><b>Dubai</b><span>UAE</span></figcaption></figure>
+            <figure class="a-up" style="--d:.78s"><img src="t-pattaya.webp" alt="MFT group at the Pattaya sign"><figcaption><b>Pattaya</b><span>Thailand</span></figcaption></figure>
+            <figure class="a-up" style="--d:.91s"><img src="t-malaysia.webp" alt="MFT Malaysia trip group at a temple"><figcaption><b>Kuala Lumpur</b><span>Malaysia</span></figcaption></figure>
+            <figure class="a-up" style="--d:1.04s"><img src="t-cordelia.webp" alt="MFT group in front of the Cordelia cruise ship"><figcaption><b>Cordelia Cruise</b><span>Chennai</span></figcaption></figure>
+            <figure class="a-up" style="--d:1.17s"><img src="t-batu.webp" alt="MFT group at Batu Caves"><figcaption><b>Batu Caves</b><span>Malaysia</span></figcaption></figure>
+            <figure class="a-up" style="--d:1.3s"><img src="t-rafting.webp" alt="MFT travellers river rafting"><figcaption><b>River rafting</b><span>Adventure trip</span></figcaption></figure>
           </div>
         </section>
 
@@ -903,7 +906,7 @@ body {
   $('#terms').append(h([
     'A 30% TDS is applicable on giveaway prizes valued above ₹10,000.',
     'GST is applicable on all goods, ranging from 5% to 18%, depending on the product category.',
-    'Every member should pay a monthly installment of ₹1,999 or ₹4,999 for 16 months.',
+    'Every member should pay a monthly installment of ₹2,000 or ₹5,000 for 16 months.',
     'The draw will be conducted live on YouTube in the 2nd or 3rd week of every month at 5:00 PM.',
     'Each installment must be paid on the 10th of every month. Otherwise, your name will not be included in the surprise draw.',
     'The winner of the draw will not have to pay the next installment.',
@@ -940,11 +943,30 @@ body {
     $('#confetti').innerHTML = s;
   })();
 
+  /* ---------- gold dust ---------- */
+  (function () {
+    const cv = $('#dust'); if (!cv || matchMedia('(prefers-reduced-motion: reduce)').matches) return;
+    const c = cv.getContext('2d'), P = [];
+    for (let i = 0; i < 70; i++) P.push({ x: Math.random() * 1920, y: Math.random() * 1080, r: .6 + Math.random() * 2.2, v: .15 + Math.random() * .45, a: Math.random() * 6.28, s: .004 + Math.random() * .01 });
+    (function tick() {
+      c.clearRect(0, 0, 1920, 1080);
+      for (const p of P) {
+        p.y -= p.v; p.x += Math.sin(p.a) * .3; p.a += p.s;
+        if (p.y < -10) { p.y = 1090; p.x = Math.random() * 1920; }
+        const o = .25 + .45 * (0.5 + 0.5 * Math.sin(p.a * 3));
+        c.beginPath(); c.arc(p.x, p.y, p.r, 0, 6.283); c.fillStyle = `rgba(244,226,176,${o.toFixed(2)})`; c.shadowColor = 'rgba(244,226,176,.8)'; c.shadowBlur = 8; c.fill();
+      }
+      requestAnimationFrame(tick);
+    })();
+  })();
+
   /* ---------- footers ---------- */
   const slides = [...document.querySelectorAll('.slide')], N = slides.length;
   slides.forEach((el, i) => {
-    if (i === 0 || el.hasAttribute('data-nofoot')) return;
-    el.append(h(`<div class="foot a-fade" style="--d:.2s"><div class="fb"><img src="logo.webp" alt="">MFT · Time to Travel</div><div class="pg"><b>${String(i + 1).padStart(2, '0')}</b> / ${N}</div></div>`));
+    if (i === 0) return;
+    if (i < N - 1) el.append(h(`<img class="corner-logo a-spin" style="--d:.15s" src="logo.webp" alt="MFT logo">`));
+    if (el.hasAttribute('data-nofoot')) return;
+    el.append(h(`<div class="foot a-fade" style="--d:.2s"><div class="fb">MFT · Time to Travel</div><div class="pg"><b>${String(i + 1).padStart(2, '0')}</b> / ${N}</div></div>`));
   });
 
   /* ---------- viewer ---------- */
